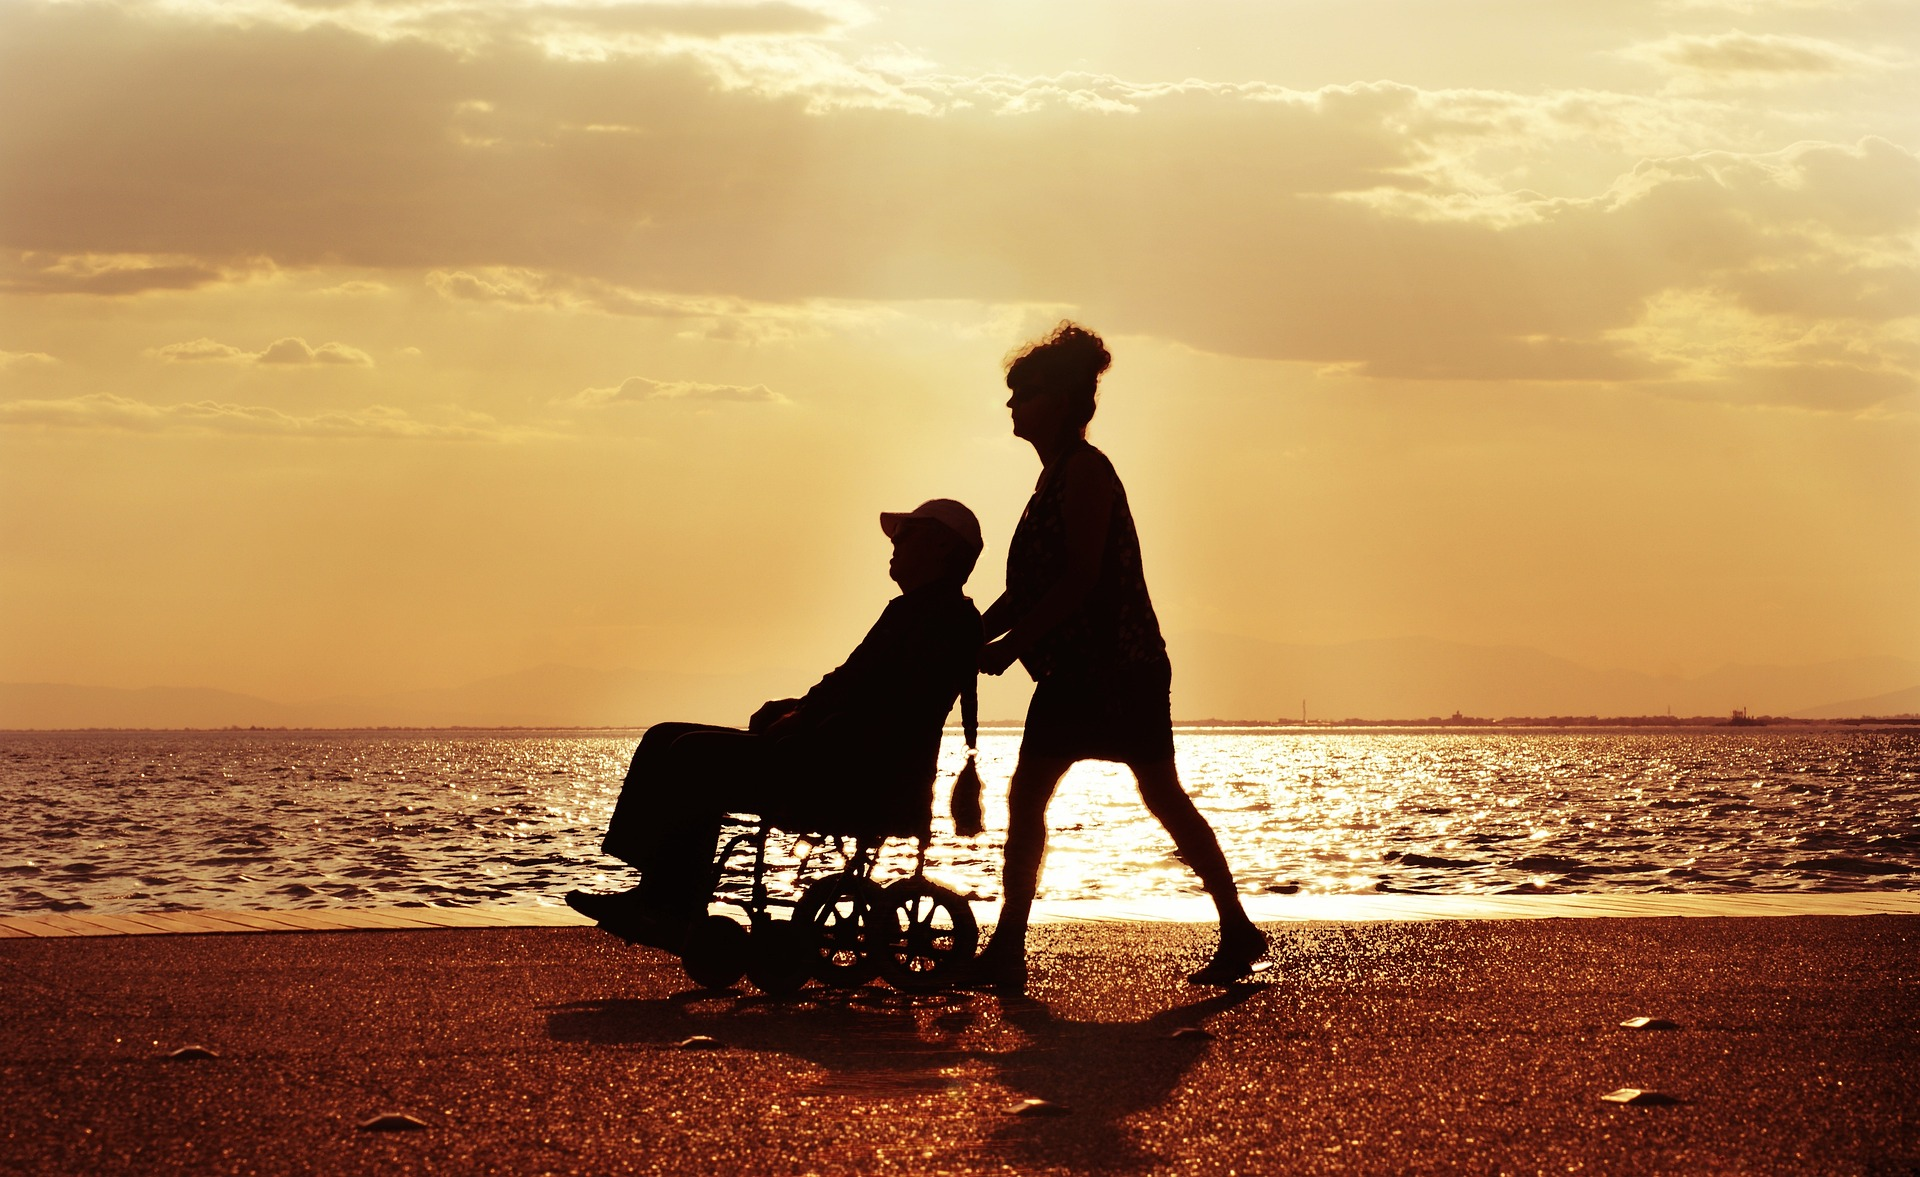
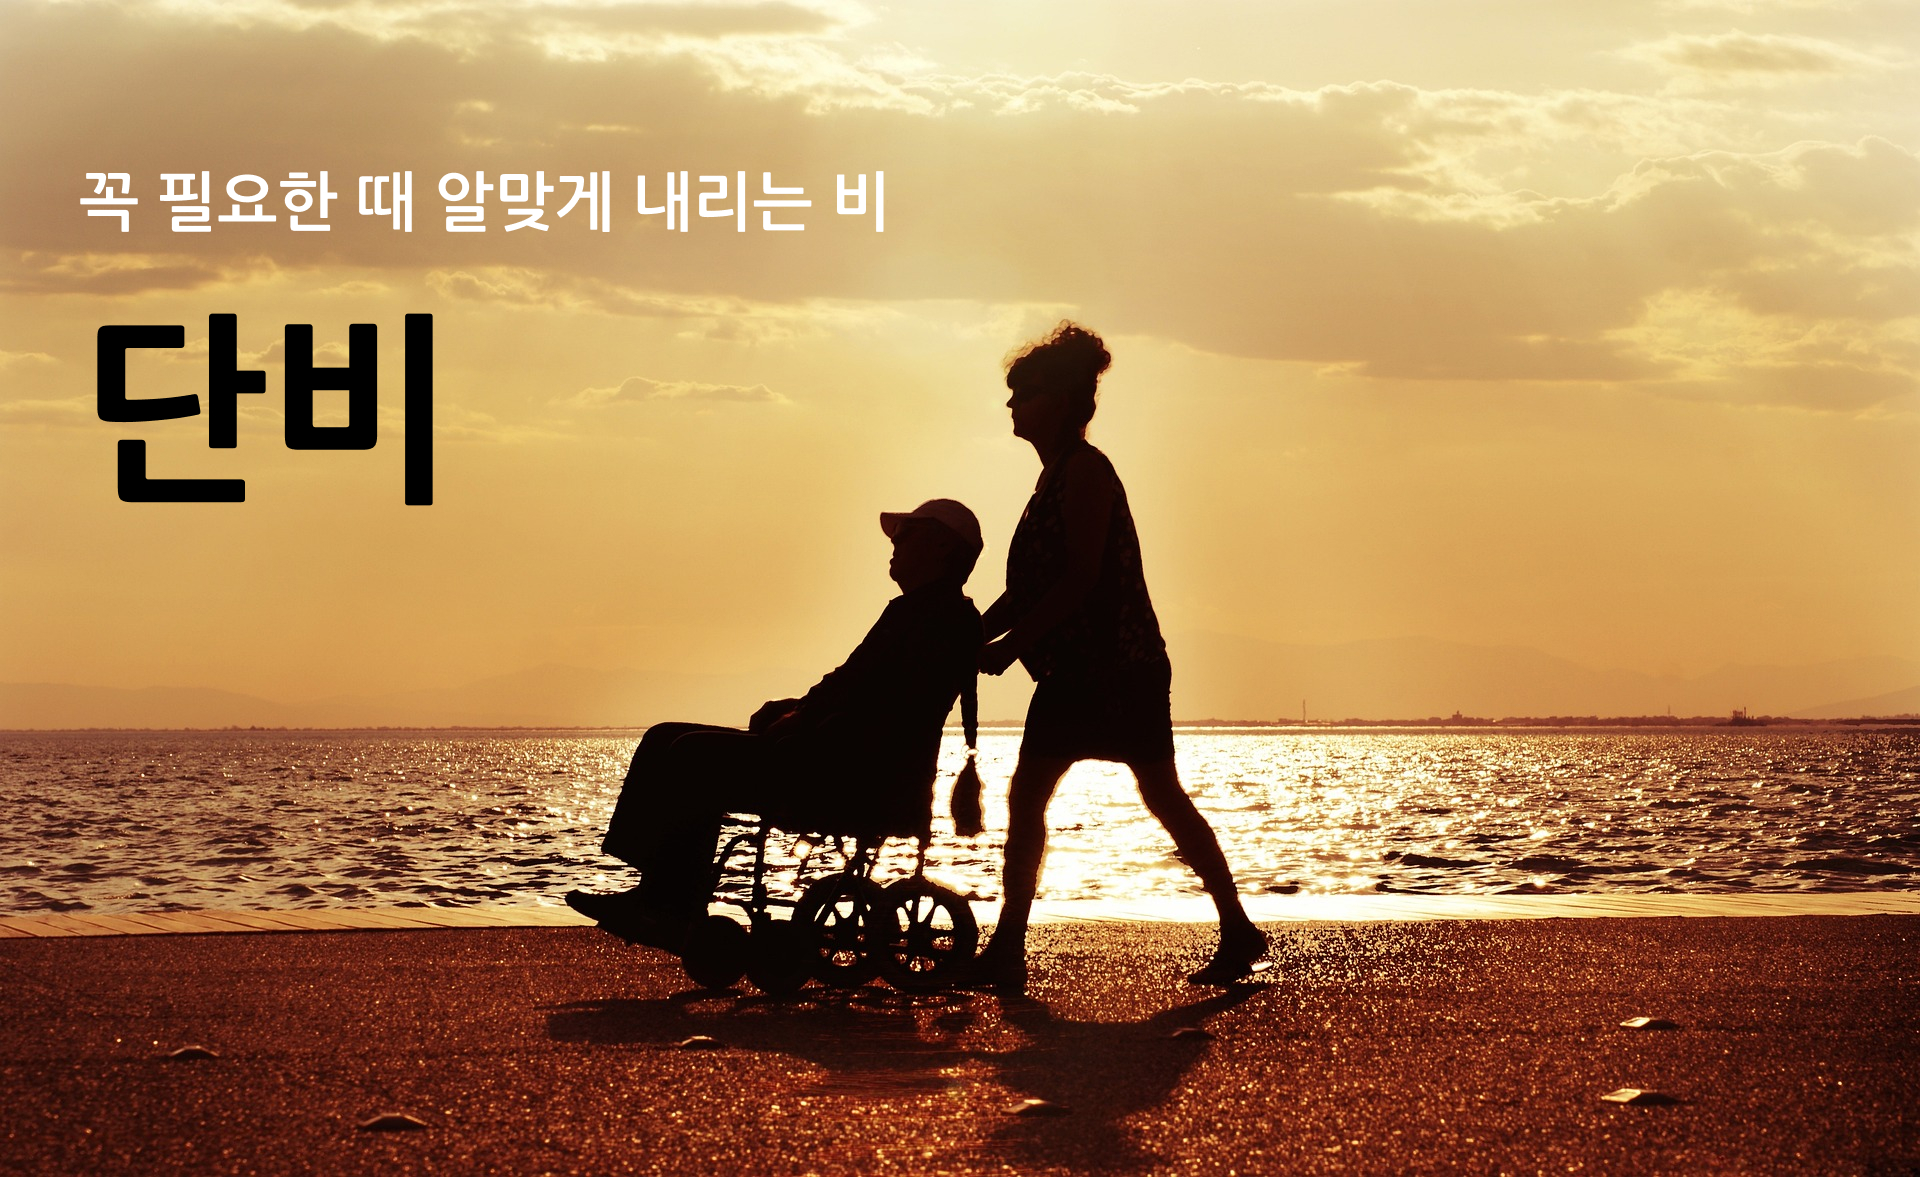
hotfix : 배경화면 변경

Changed region(s): [[0.0312, 0.2447, 0.25, 0.4282], [0.0312, 0.1223, 0.4688, 0.2141]]

diff --git a/FE/danbi/src/App.js b/FE/danbi/src/App.js
@@ -76,10 +76,6 @@ function App() {
     {
       document.body.offsetWidth >= 768?
       <PCWrap $url = {`${process.env.PUBLIC_URL}/wheelchair.jpg`}>
-        <TextWrap>
-        <div>꼭 필요한 때 알맞게 내리는 비</div>
-        <div>단비</div>
-        </TextWrap>
         <MobileWrap>
           <ThemeProvider theme={theme}>
           <AppWrap className="App">
